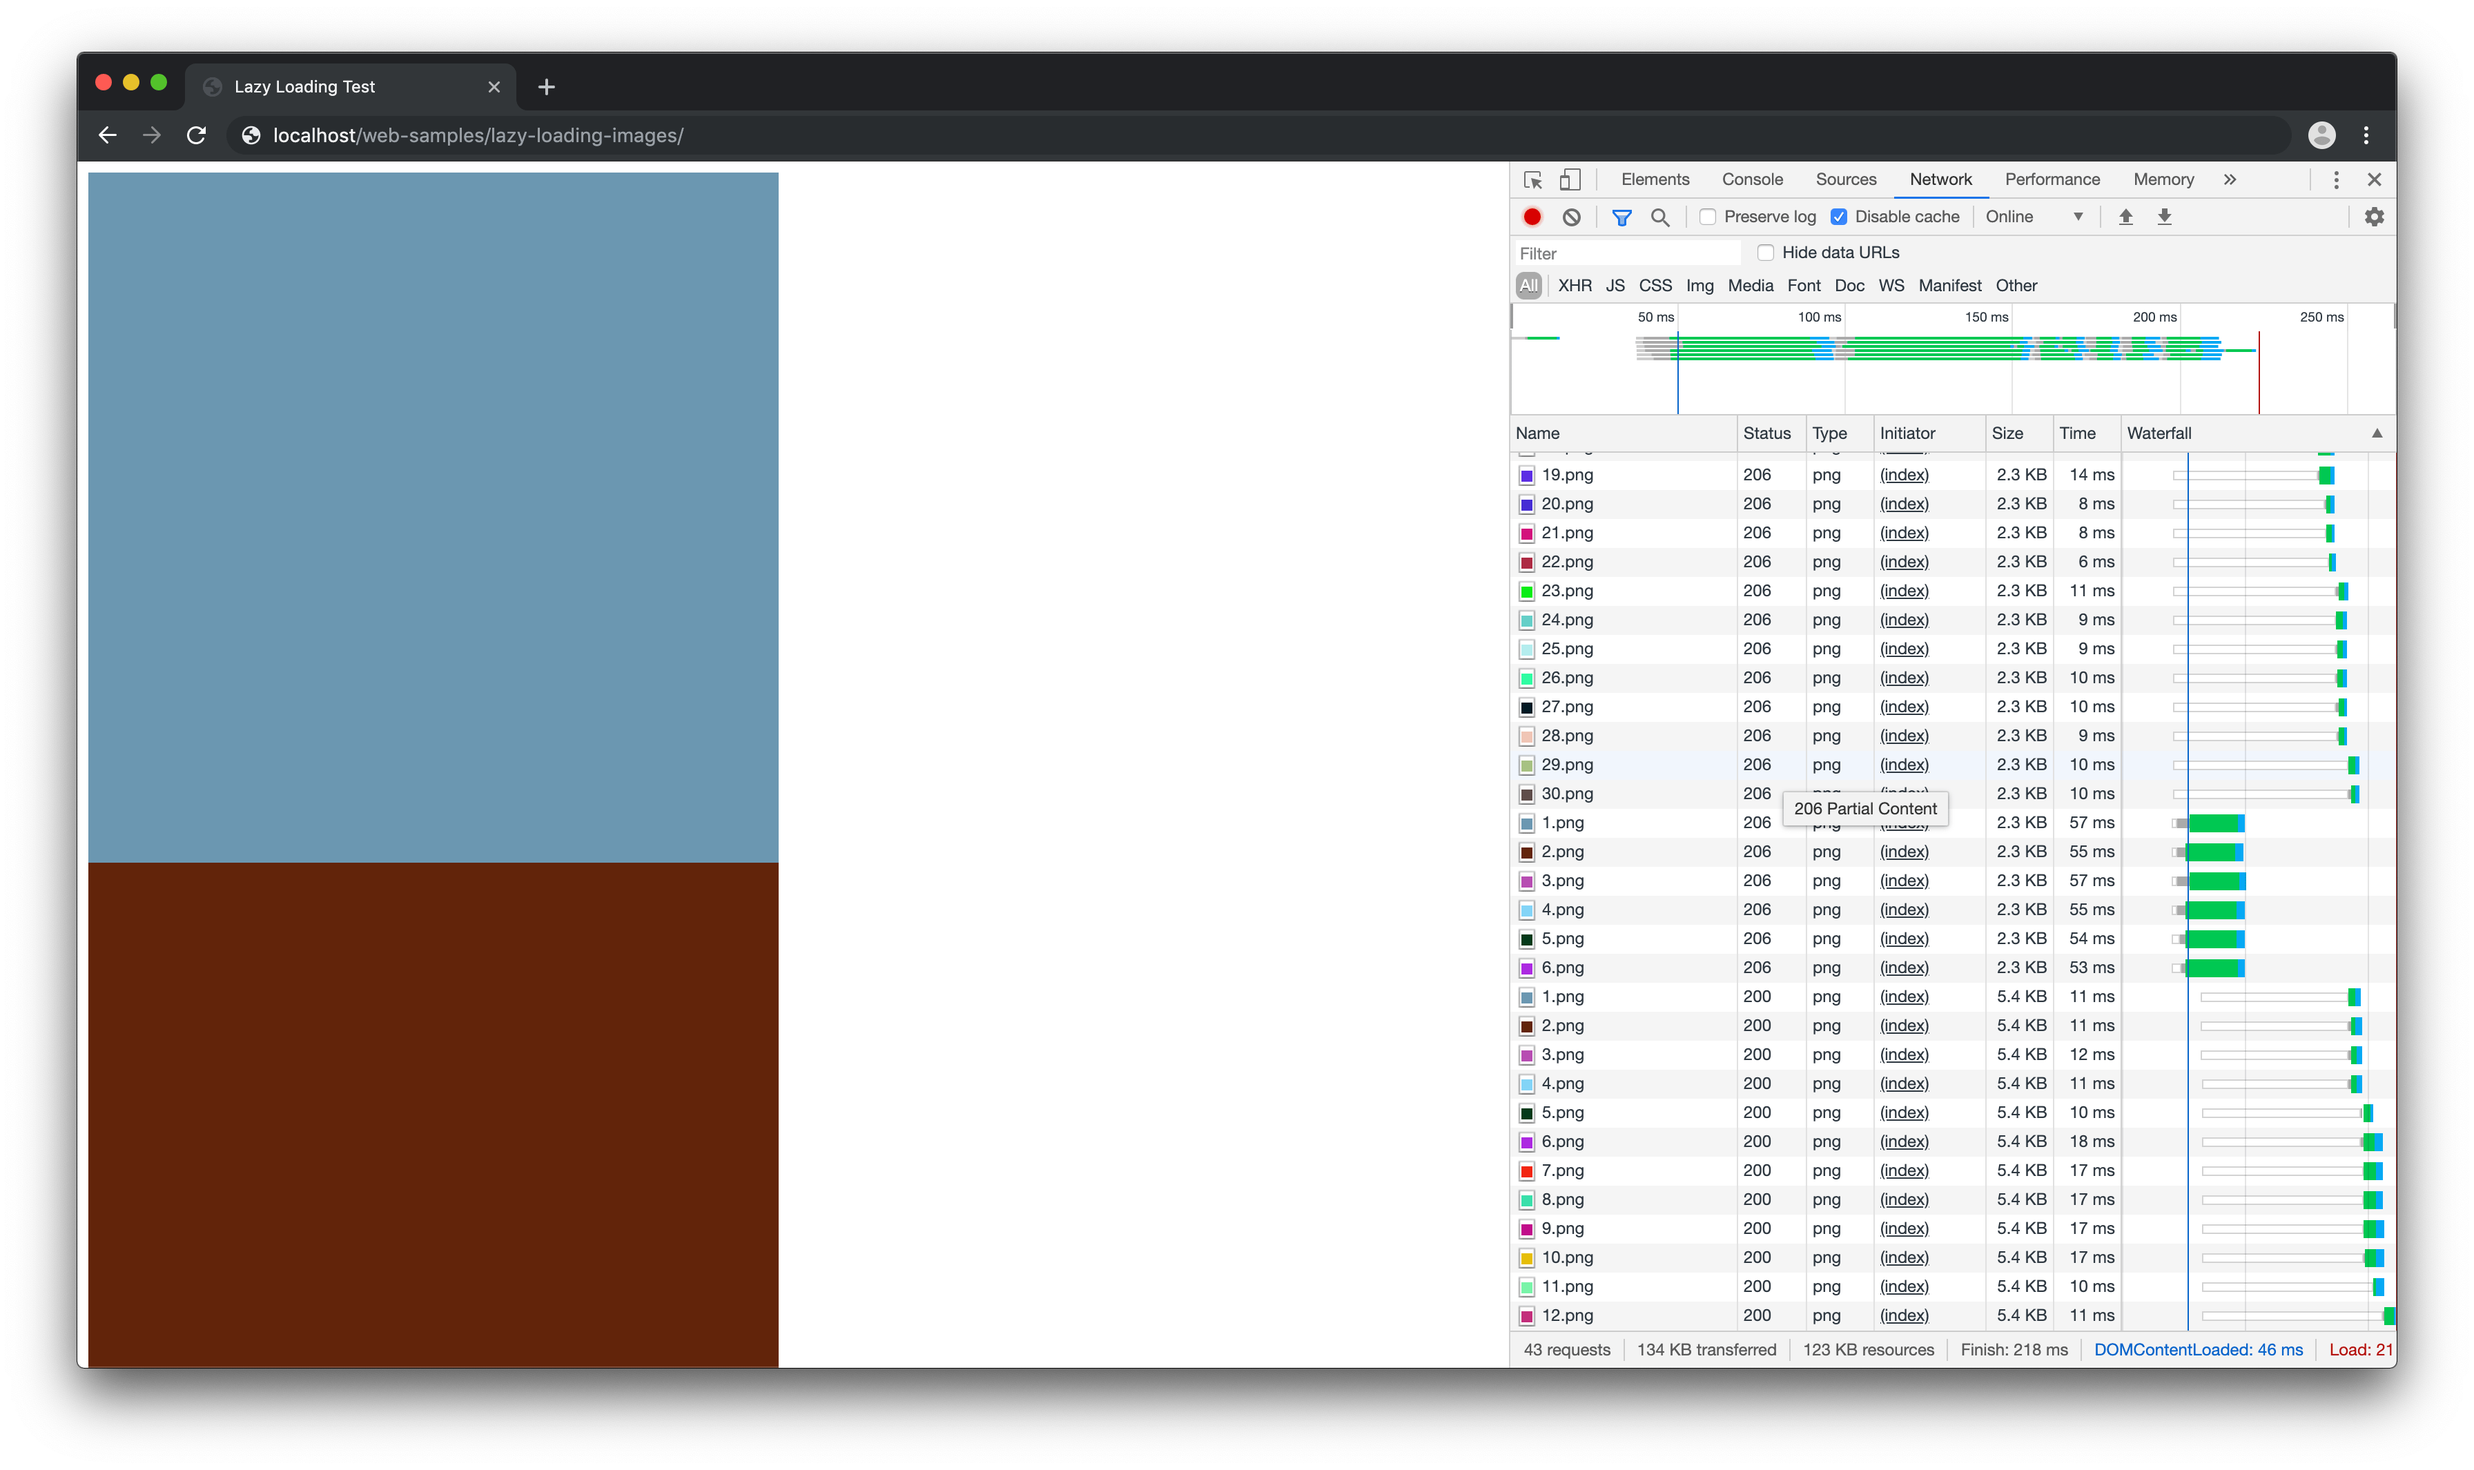
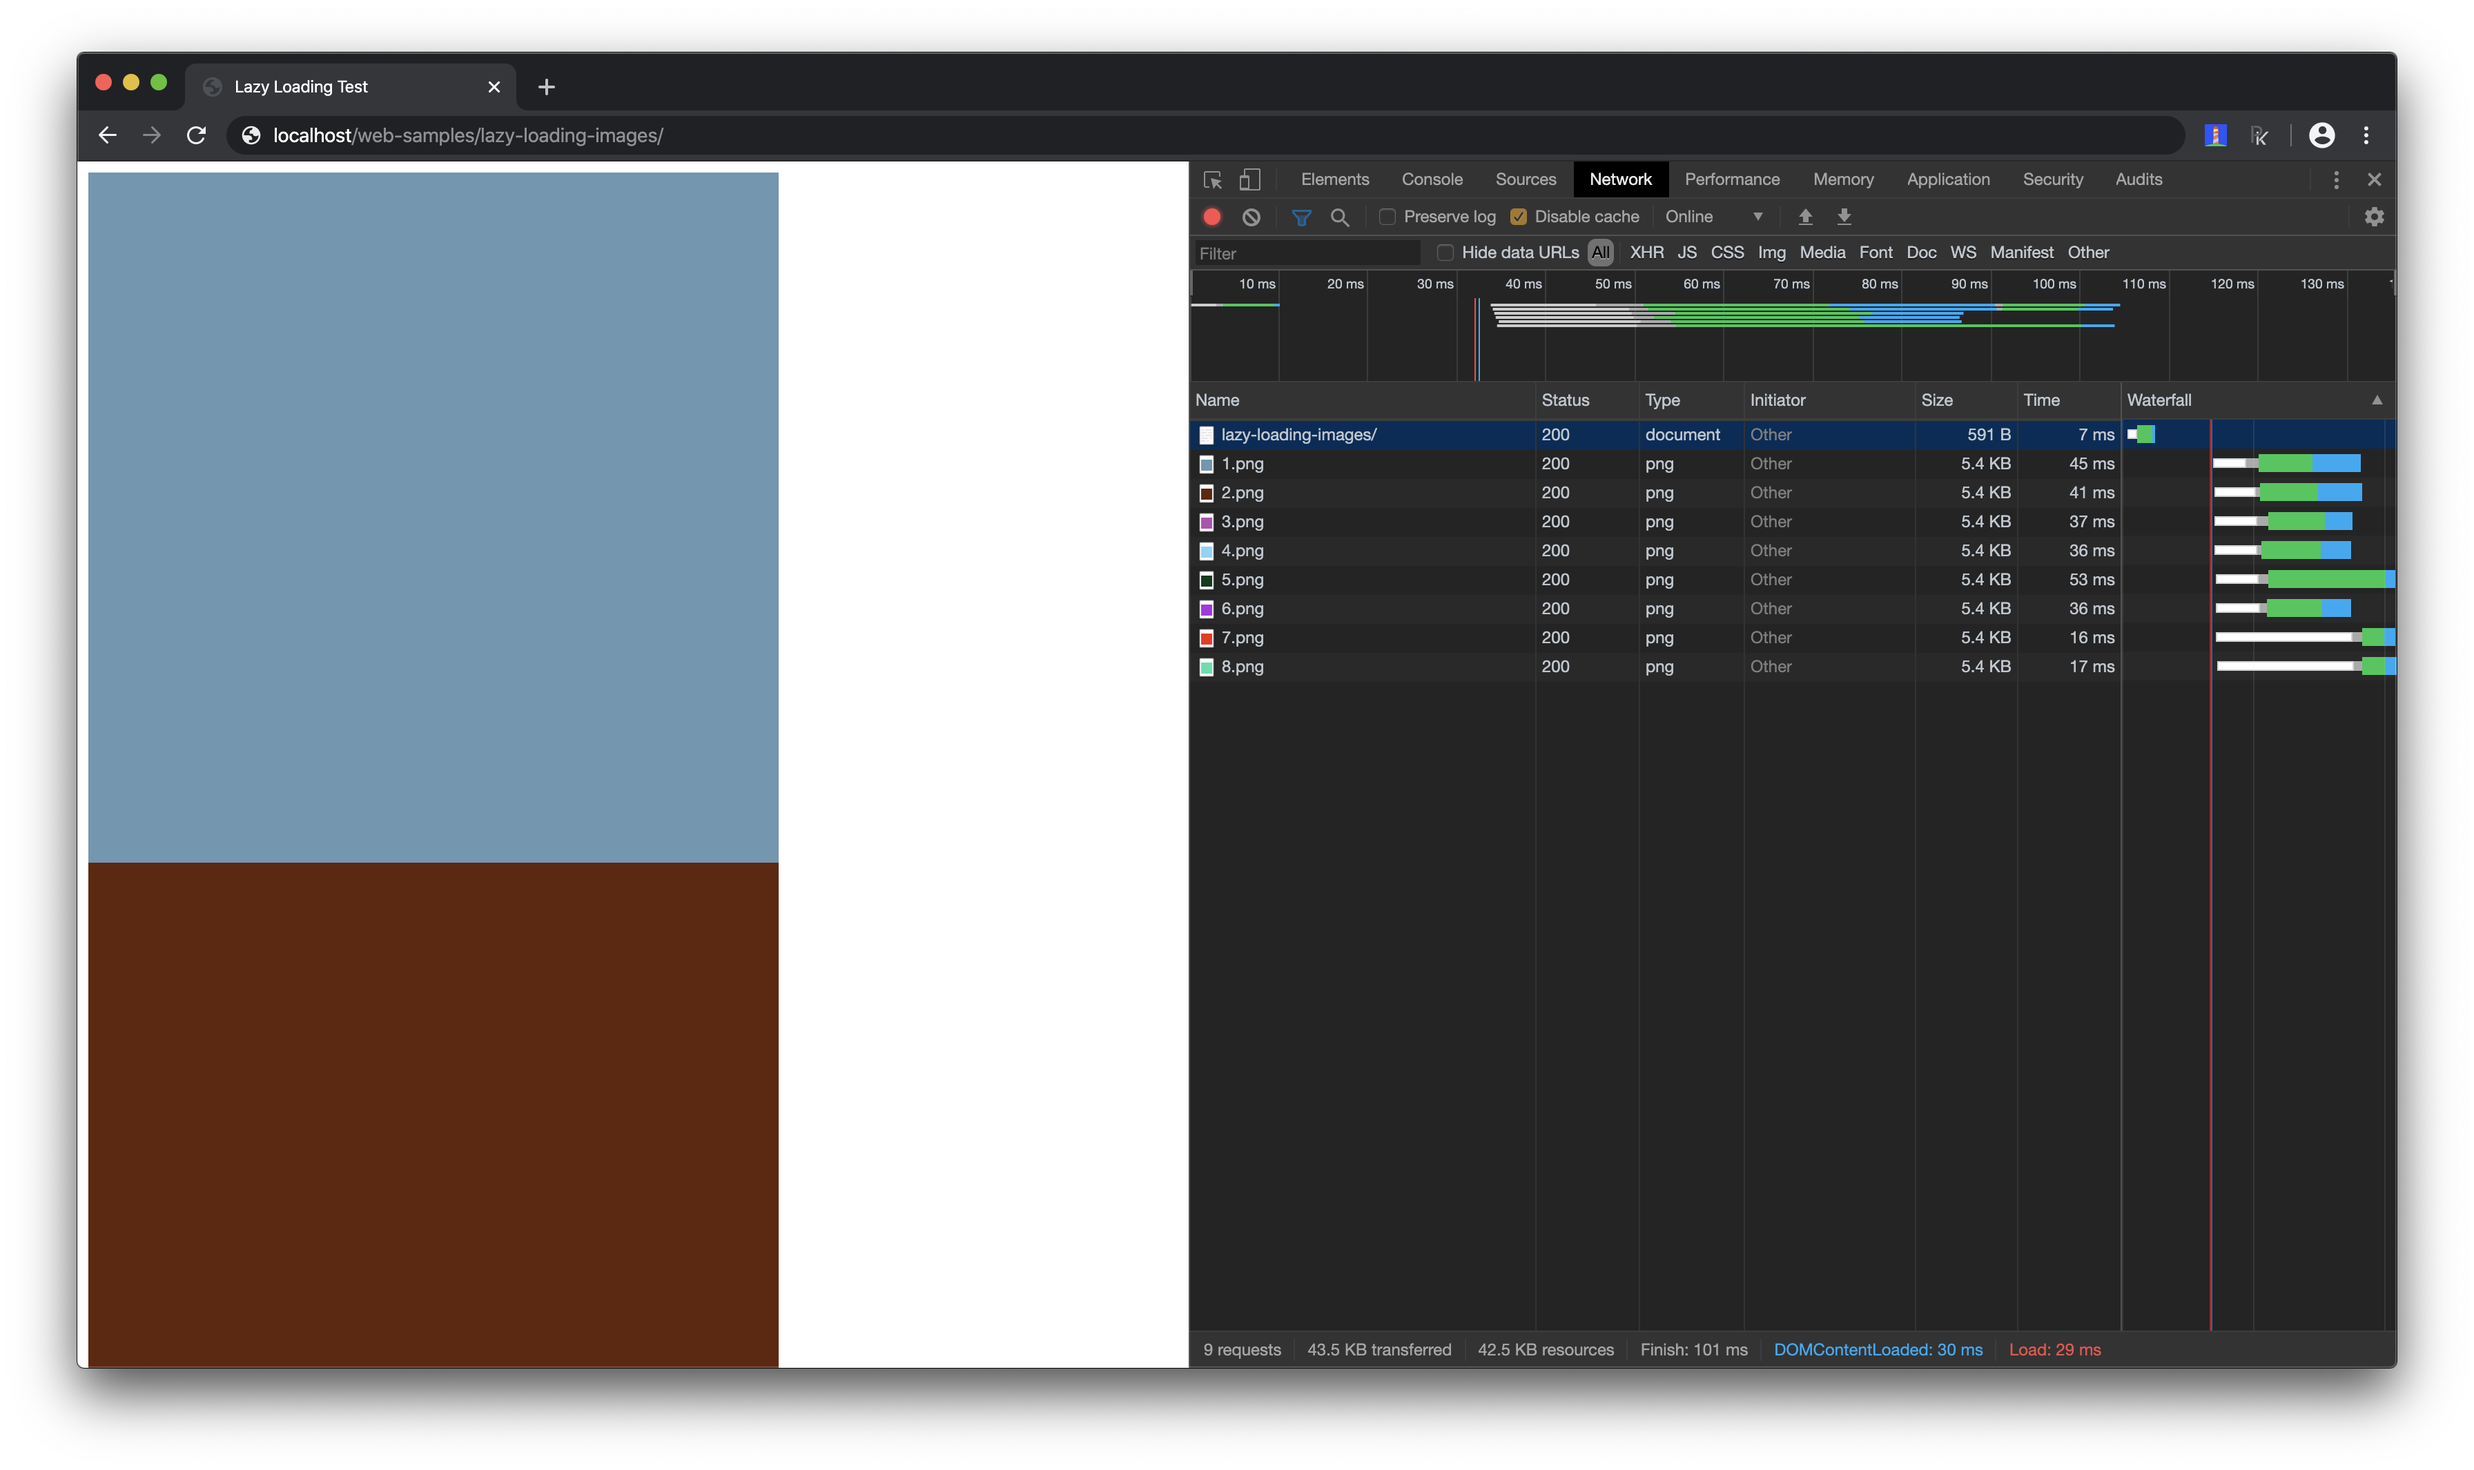
update readme and add new images

diff --git a/lazy-loading-images/README.md b/lazy-loading-images/README.md
@@ -1,20 +1,22 @@
-# Lazy Loading Images
+# Lazy loading images
 
-Lazy loading images which are not in the Viewport at the moment come native to the web. This is currently only supported in Chrome Canary and also behind a flag.
+Lazy loading images which are not in the viewport at the moment come native to the web. This is currently only supported in Chrome but if the Browser does not support it, it's no problem. It won't work but it won't break your page either. So you can add it to your page and over time it reaches more users.
+
+You can check out [caniuse.com](https://caniuse.com/#feat=loading-lazy-attr) to see how the support of this feature is at the moment.
 
 The only thing you need to do is to add the loading attribute with the value lazy to your HTML image tag.
 ```html
 <img src="images/1.png" loading="lazy">
 ```
 
-You must enable the following two flags in Chrome:
-* chrome://flags/#enable-lazy-image-loading
-* chrome://flags/#enable-lazy-frame-loading
-
-If you then load this sample page you can see in Chrome Dev Tools that I load all the images. But if the server supports range requests, it only requests the first 2 KB to get the size of the image. The size is needed to display a proper placeholder. In the screenshot below you can see that there are 43 request and 134 KB transferred.
+If you then load this sample page you can see in Chrome Dev Tools that only some of the images are loaded. On the page there are 30 images but it loaded only 8 of them.
 
 ![Page Load](assets/page-load.png)
 
-If you then scroll down to the end of the page, Chrome loads all the missing images. You can see that in the screenshot below. Now we have 61 requests and 231 KB transferred.
+When you scroll down until the end of the page, all images were loaded before they are visible. At the end all of the 30 images are loaded.
 
 ![Scrolled Down](assets/scrolled-down.png)
+
+Below you can see how it looks in the Chrome Dev Tools when you scroll down.
+
+![Scroll](assets/scroll.gif)
